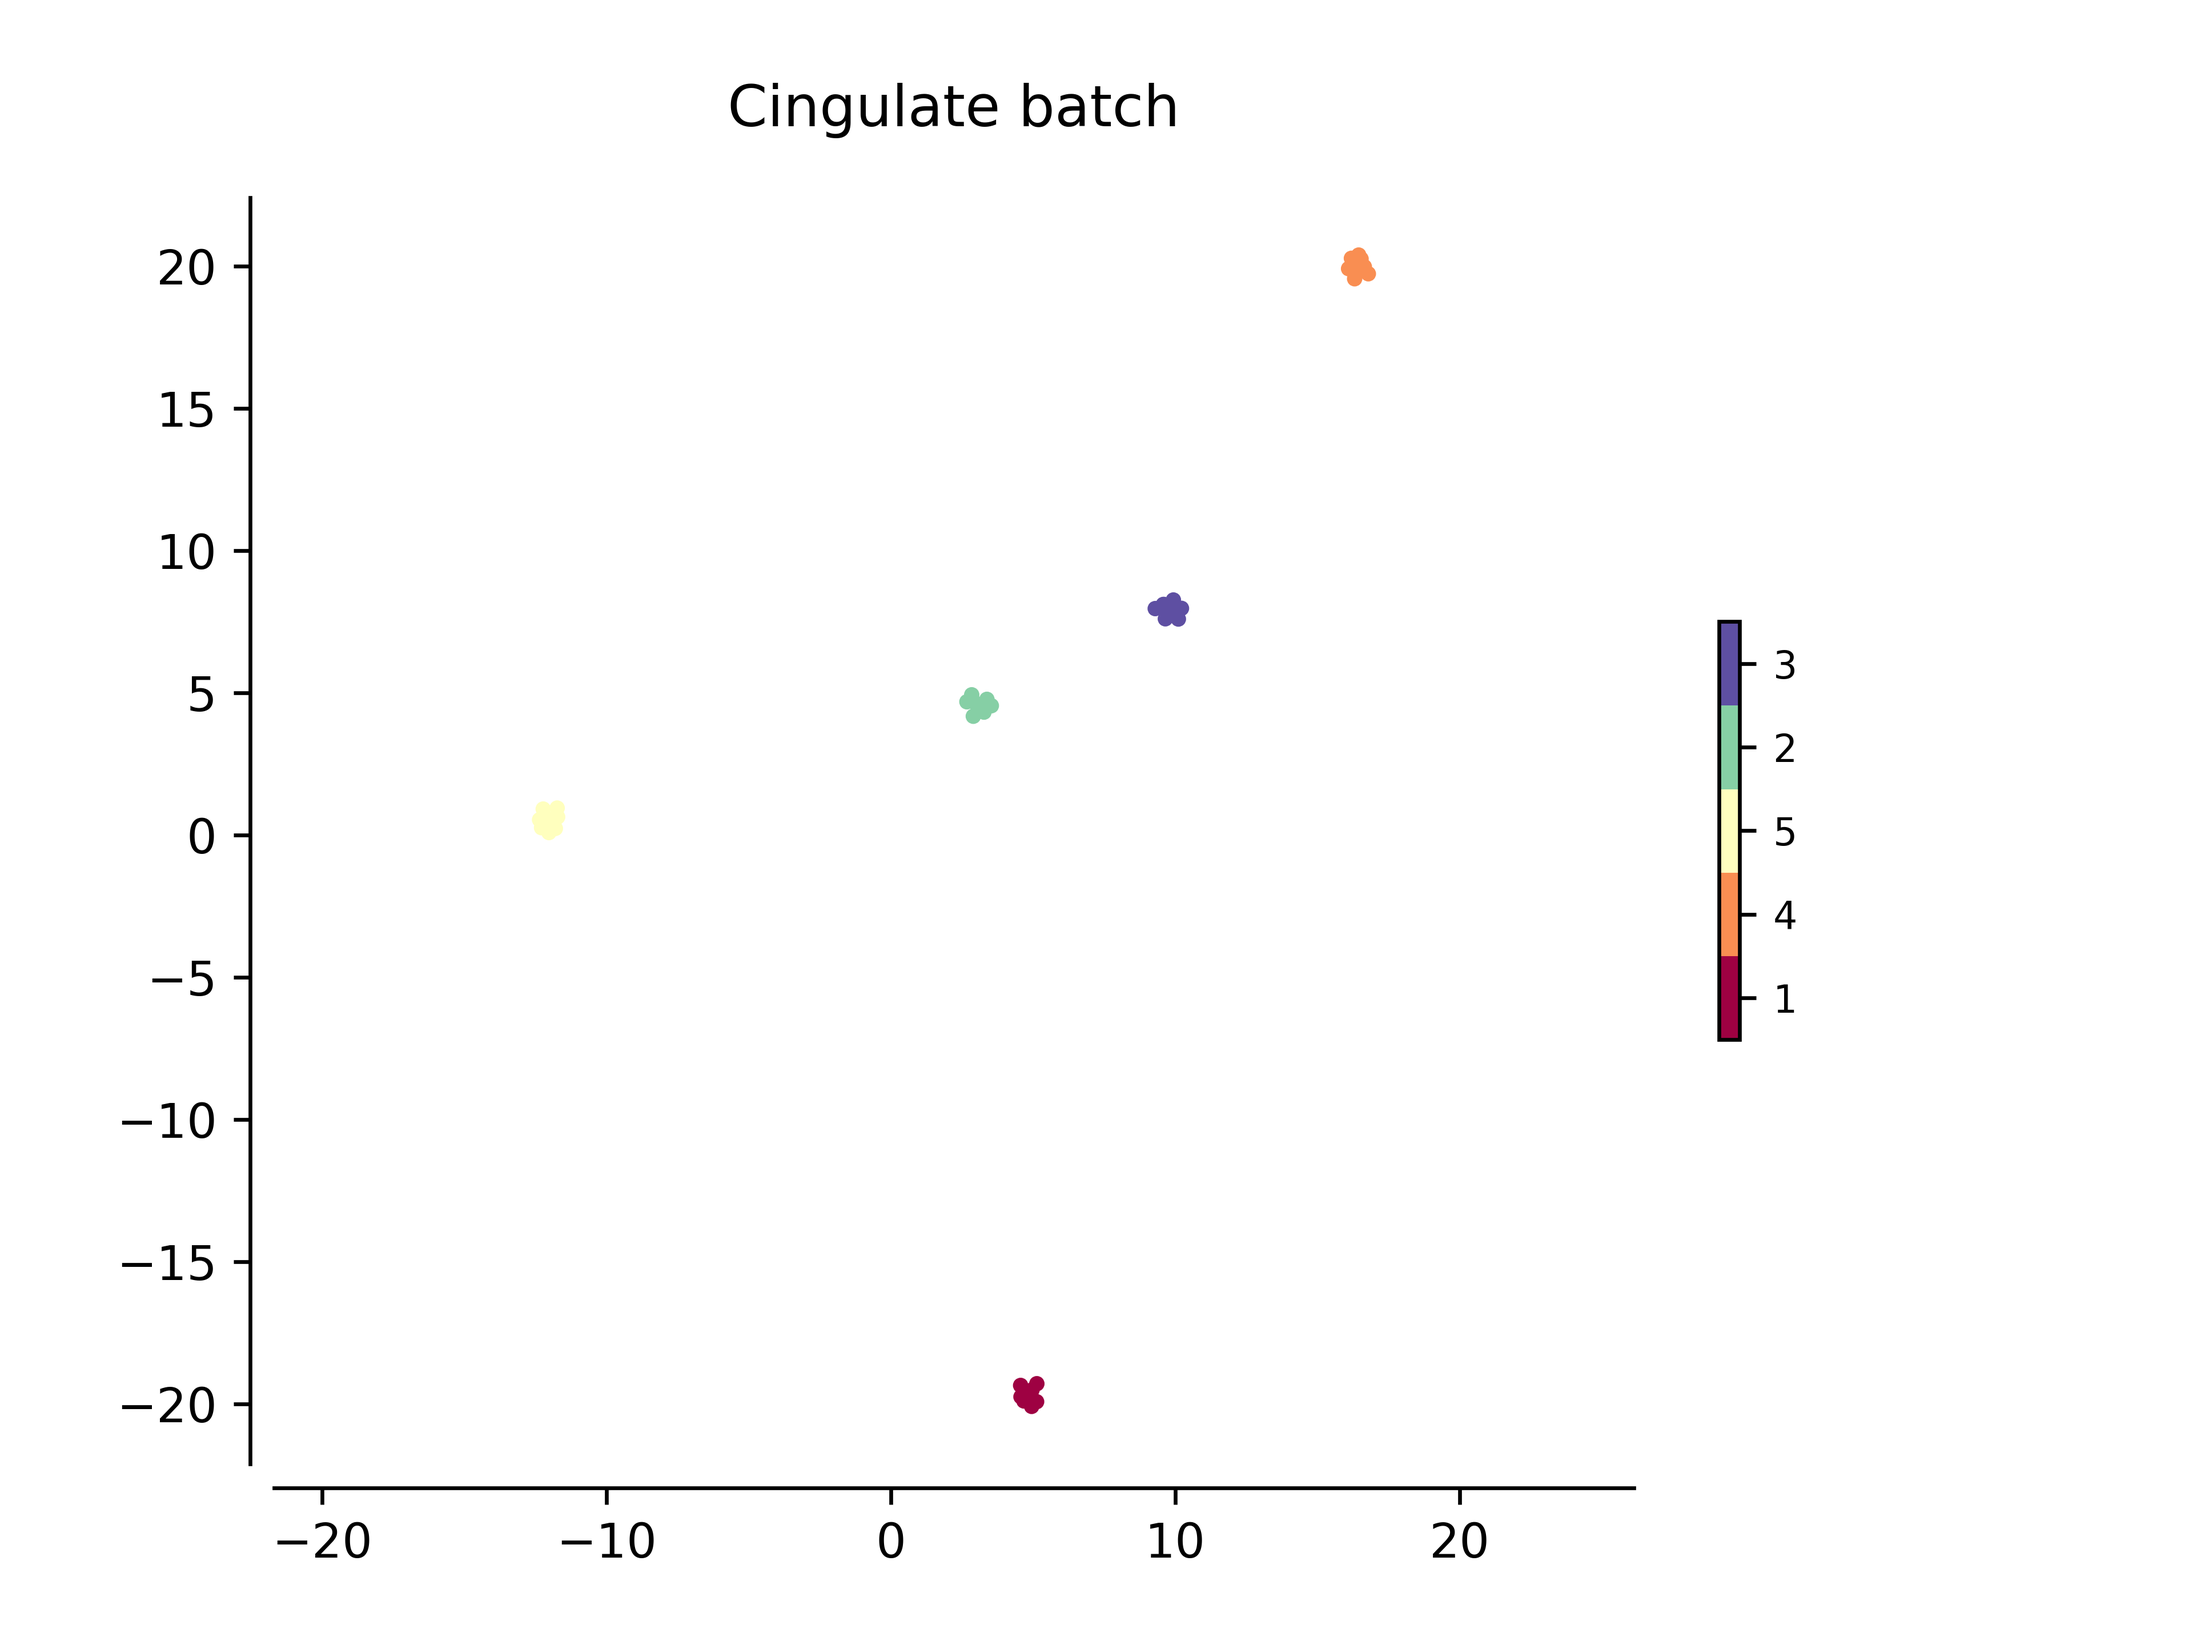
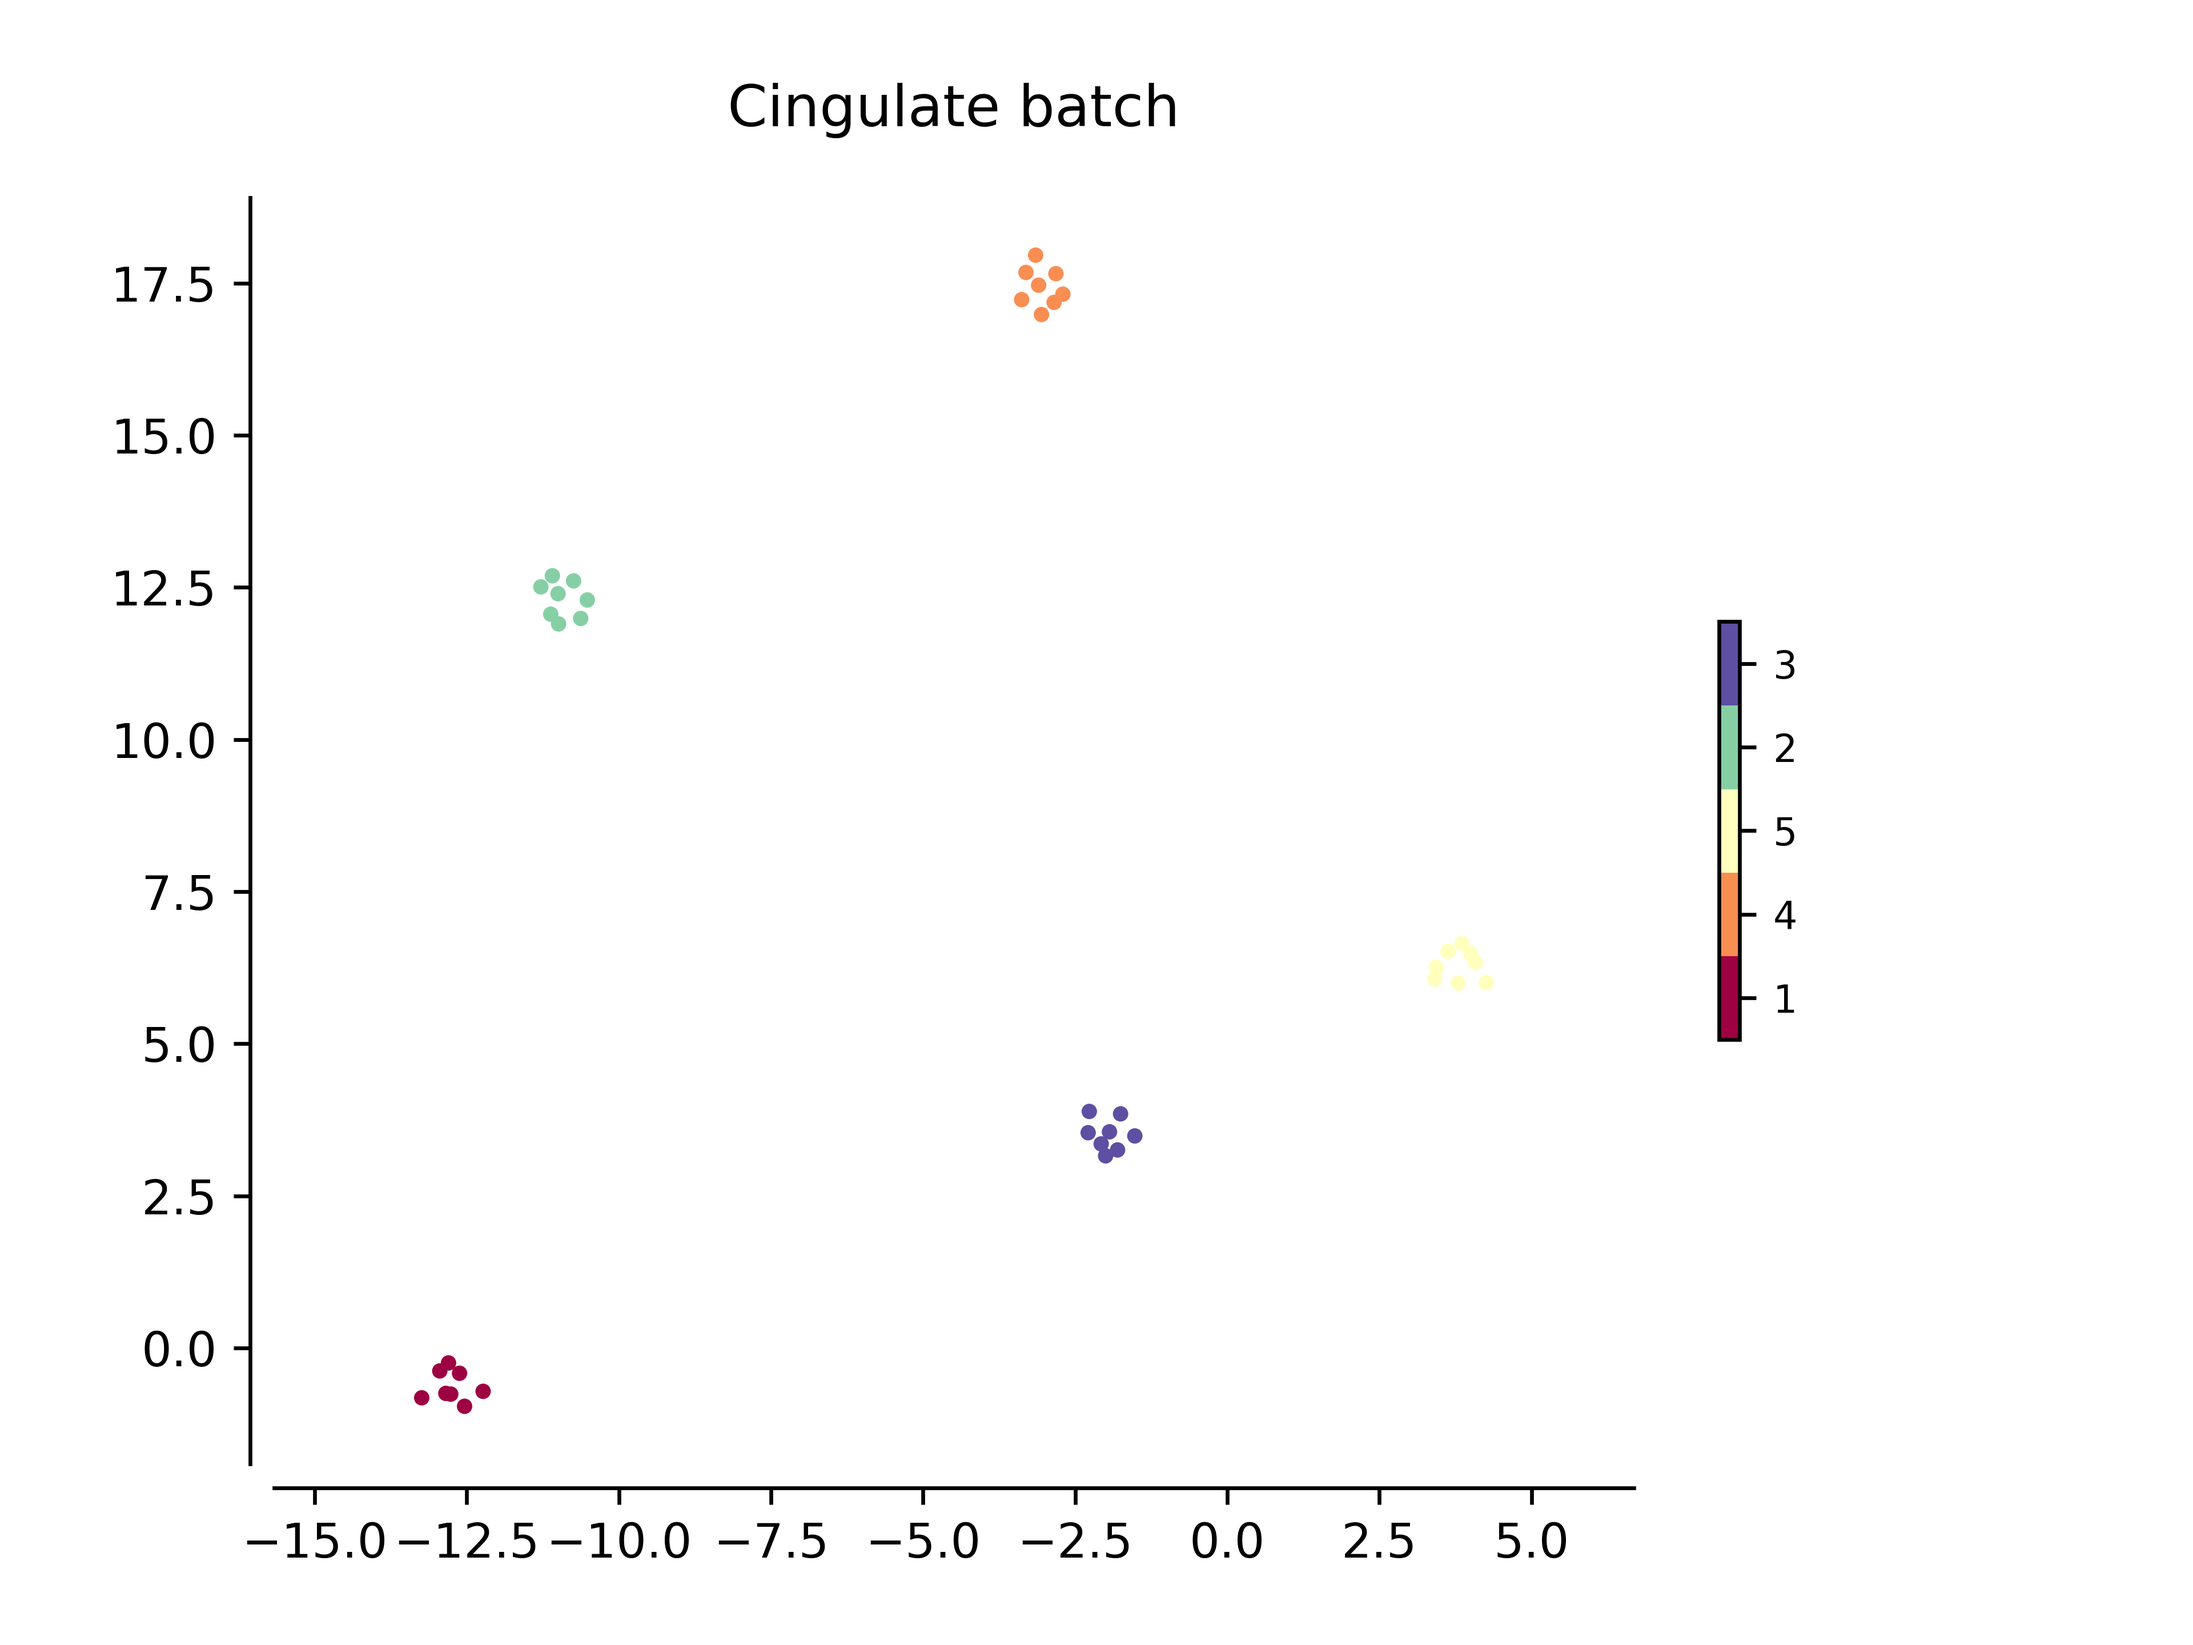
Umap of summary data

diff --git a/src/visualization/pre_visualize.py b/src/visualization/pre_visualize.py
@@ -31,8 +31,8 @@ def prep_volcano(cf):
     return cf_clean
 
 
-def prep_umap(cf):
-    """Prep data for volcano plots
+def prep_umap(cf, col="label", vals=["q_score", "pep_score"]):
+    """Prep data for umap plots
 
     Cleans off unnecessary columns information then aggregates by means
     """
@@ -40,12 +40,12 @@ def prep_umap(cf):
         cf.T.reset_index()
         .rename_axis(columns=None)
         .rename(columns={"level_0": "batch", "level_1": "label"})
-        .filter_by_val(col="label", vals=["q_score", "pep_score"], keep=False)
+        .filter_by_val(col=col, vals=vals, keep=False)
         .sort_values(by=["label"])
         .reset_index()
         .drop(columns=["index"])
     )
-    cf_clean["label"] = cf_clean["label"].str[:-1]
+    cf_clean["label"] = cf_clean["label"].str.extract("(\D+)", expand=False)
     cf_clean["label"] = cf_clean["label"].astype("category")
     return cf_clean
 
@@ -94,3 +94,42 @@ if __name__ == "__main__":
                 path=f"reports/figures/{data[1]}_{col}.png",
             )
             plt.close()
+
+    # Examine their summary data
+    data = (
+        cf.CleanFrame(
+            pd.read_excel(
+                "references/TMT_Summary_Data.xlsx",
+                sheet_name=sheet,
+                header=(0, 2),
+                index=0,
+            )
+        )
+        for sheet in ("frontal cortex", "anterior cingulate gyrus")
+    )
+
+    # Clean Data
+    titles = (
+        "Frontal Cortex TMT Summary Data.#",
+        "Anterior Cingulate Gyrus TMT Summary Data.#",
+    )
+    data_prep = (
+        prep_umap(item[0], col="batch", vals=[item[1]]) for item in zip(data, titles)
+    )
+
+    # Drop NaNs
+    data_clean = (cf.loc[:, (cf != 0).all()].dropna(axis=1) for cf in data_prep)
+
+    # Plot data
+    paths = (
+        "reports/figures/Frontal_sum_umap.png",
+        "reports/figures/Cingulate_sum_umap.png",
+    )
+    for item in zip(data_clean, paths):
+        item[0].umap(
+            [i for i in item[0].columns if i not in ["batch", "label"]],
+            "label",
+            show=False,
+            save=True,
+            path=item[1],
+        )
